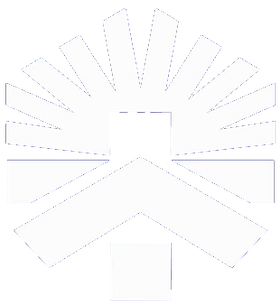
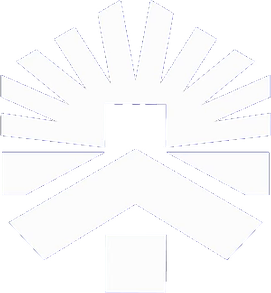
Brasão da entrada menor e centralizado
Claude-Session: https://claude.ai/code/session_01LFRyEM2EjRZDYL1MvCYkUE

diff --git a/aplicativo/app.css b/aplicativo/app.css
@@ -731,4 +731,4 @@ html{scrollbar-gutter:stable}
 /* Entrada no app: brasão branco no azul, zoom pelo centro até a inicial. */
 #nib-proposta .app-enter{position:fixed;inset:0;z-index:950;display:grid;place-items:center;overflow:hidden;background:#041e42;pointer-events:none}
 #nib-proposta .app-enter[hidden]{display:none}
-#nib-proposta .enter-brasao{width:clamp(120px,34vw,180px);height:auto;max-width:none;transform-origin:50.4% 45.9%;will-change:transform;opacity:0}
+#nib-proposta .enter-brasao{position:absolute;top:50%;left:50%;display:block;width:clamp(76px,22vw,112px);height:auto;max-width:none;margin:calc(clamp(76px,22vw,112px) * -0.5406) 0 0 calc(clamp(76px,22vw,112px) * -0.5);transform-origin:50.2% 45.1%;will-change:transform;opacity:0}

diff --git a/aplicativo/index.html b/aplicativo/index.html
@@ -49,7 +49,7 @@
   <p class="auth-test">Versão de teste: nada do que você digitar é enviado ou guardado. Use dados fictícios.</p>
  </div>
 </section>
-<div id="app-enter" class="app-enter" aria-hidden="true" hidden><img class="enter-brasao" src="assets/brasao-branco.png" alt="" width="280" height="305"></div>
+<div id="app-enter" class="app-enter" aria-hidden="true" hidden><img class="enter-brasao" src="assets/brasao-branco.png" alt="" width="271" height="293"></div>
 <section id="app-onboarding" class="app-onboarding" aria-roledescription="apresentação" aria-label="Conheça o aplicativo" hidden>
  <button type="button" class="onb-skip" id="onb-skip">Pular</button>
  <div class="onb-track" id="onb-track">

diff --git a/docs/APLICATIVO-COERENCIA-VISUAL-2026-11-01.md b/docs/APLICATIVO-COERENCIA-VISUAL-2026-11-01.md
@@ -293,3 +293,5 @@ Ajustes seguintes no acesso, após teste de Hilton no iPhone:
 - Orientação: a foto ficou reta embaixo e o texto sobe numa folha com cantos arredondados por cima, como na tela de acesso. O ícone fica na emenda.
 - Ao tocar em "Começar" ou "Pular": tela azul com o brasão branco no centro (fade de 0,38 s, entrada de 0,65 s e pausa), depois zoom de 1 para 38 vezes, com origem no centro do brasão, enquanto a tela azul some e revela a inicial (1,3 s, `cubic-bezier(.65,0,.35,1)`). Total de cerca de 3 s, feito com Web Animations. Com movimento reduzido, vai direto para a inicial.
 - Saudações neutras: "Boas-vindas, [nome]" na orientação e "BOAS-VINDAS" na inicial, porque o nome cadastrado pode ser de qualquer pessoa.
+
+Ajuste seguinte: o brasão da entrada ficou menor (76 a 112 px de largura, 22% da tela) e centralizado de forma exata. A imagem `brasao-branco.png` foi recortada rente ao desenho e o brasão é posicionado pelo centro da tela, sem depender do alinhamento da grade. Medido em 390×844: centro em 422 px, igual ao centro da tela.
